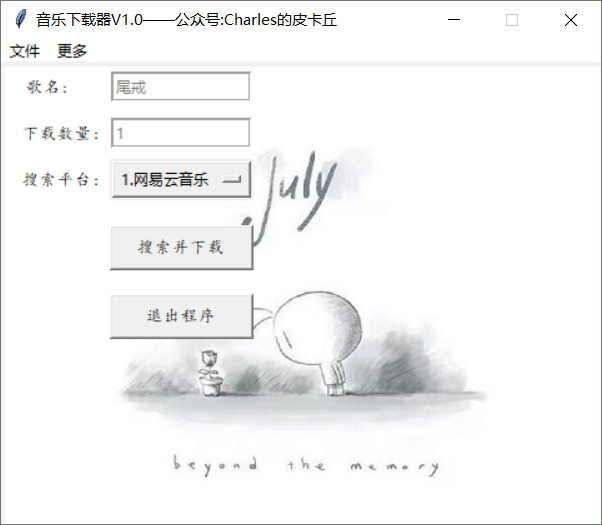
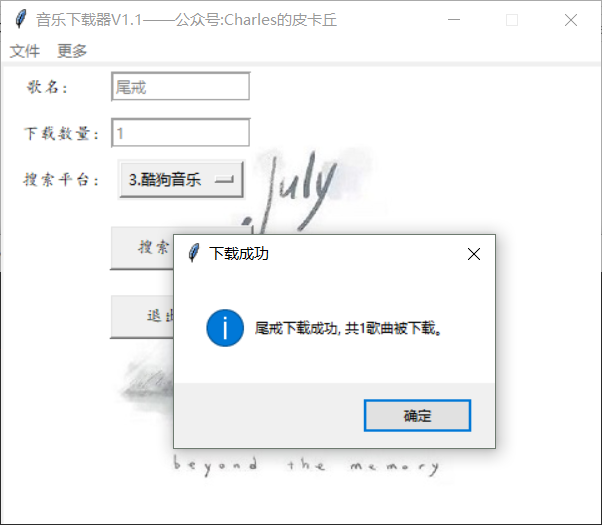
V1.1

diff --git a/platforms/kuwo.py b/platforms/kuwo.py
@@ -1,9 +1,8 @@
 # 作者： Charles
 # 公众号： Charles的皮卡丘
-# 千千音乐
+# 酷我音乐
 import re
 import os
-import json
 import urllib
 import requests
 
@@ -16,13 +15,13 @@ import requests
 返回值:
 	-downednum: 歌曲实际下载数量
 '''
-class qianqian():
+class kuwo():
 	def __init__(self):
 		self.headers = {
 						'User-Agent': 'Mozilla/5.0 (Windows NT 10.0; Win64; x64) AppleWebKit/537.36 (KHTML, like Gecko) Chrome/67.0.3396.99 Safari/537.36' 
 						}
-		self.search_url = 'http://music.baidu.com/search'
-		self.sid_url = 'http://musicapi.qianqian.com/v1/restserver/ting?method=baidu.ting.song.play&format=jsonp&callback=jQuery17208098337996053833_1513859108469&songid={}&_=1513859109906'
+		self.search_url = 'http://sou.kuwo.cn/ws/NSearch?type=all&catalog=yueku2016&key={}'
+		self.player_url = 'http://player.kuwo.cn/webmusic/st/getNewMuiseByRid?rid=MUSIC_{}'
 	# 外部调用
 	def get(self, songname, downnum=1, savepath='./results'):
 		download_names, download_urls = self._search_by_songname(songname, downnum)
@@ -34,9 +33,9 @@ class qianqian():
 			os.mkdir(savepath)
 		downed_count = 0
 		for i in range(len(download_urls)):
-			download_name = download_names[i]
+			download_name = download_names[i].replace("<\\/em>", "").replace("<em>", "").replace('\\', '').replace('/', '').replace(" ", "").replace('.', '')
 			download_url = download_urls[i]
-			savename = 'qianqian_{}_{}.mp3'.format(str(i), download_name)
+			savename = 'kuwo_{}_{}.mp3'.format(str(i), download_name)
 			try:
 				# way1:
 				urllib.request.urlretrieve(download_url, os.path.join(savepath, savename))
@@ -45,28 +44,26 @@ class qianqian():
 				try:
 					# way2
 					with open(os.path.join(savepath, savename), 'wb') as f:
-						f.write(requests.get(download_url, headers=self.headers).content)
+						f.write(requests.get(download_url).content)
 					downed_count += 1
 				except:
 					pass
 		return min(downed_count, len(download_urls))
 	# 根据歌名搜索
 	def _search_by_songname(self, songname, downnum):
-		data = {
-				'key': songname
-				}
-		res = requests.get(self.search_url, params=data, headers=self.headers)
-		sids = re.findall(r'sid&quot;:(\d+),', res.text)
+		res = requests.get(self.search_url.format(songname), headers=self.headers)
+		songinfos = re.findall(r'<a href="http://www\.kuwo\.cn/yinyue/(.*?)/" title="(.*?)" target="_blank">', res.text)
 		download_names = []
 		download_urls = []
-		for sid in sids:
+		for songinfo in songinfos:
 			if len(download_urls) == downnum:
 				break
-			res = requests.get(self.sid_url.format(sid), headers=self.headers)
-			temp = re.findall(r'\((.*)\)', res.text)[0]
-			data = json.loads(temp)
-			download_name = data['songinfo']['title'].replace("\\", "").replace("/", "").replace(" ", "").replace('.', '')
-			download_url = data['bitrate']['file_link']
+			download_name = songinfo[1].replace('&nbsp;', '').replace('\\', '').replace('/', '').replace(" ", "").replace('.', '')
+			songid = songinfo[0]
+			res = requests.get(self.player_url.format(songid), headers=self.headers)
+			mp3dl = re.findall(r'<mp3dl>(.*?)</mp3dl>', res.text)[0]
+			mp3path = re.findall(r'<mp3path>(.*?)</mp3path>', res.text)[0]
+			download_url = 'http://' + mp3dl + '/resource/' + mp3path
 			download_names.append(download_name)
 			download_urls.append(download_url)
 		return download_names, download_urls
@@ -74,4 +71,4 @@ class qianqian():
 
 # 测试用
 if __name__ == '__main__':
-	qianqian().get(songname='尾戒', downnum=1, savepath='./results')
+	kuwo().get('尾戒', downnum=1, savepath='./results')

diff --git a/main.py b/main.py
@@ -1,11 +1,12 @@
-# 作者： Charles
-# 公众号： Charles的皮卡丘
+# 作者: Charles
+# 公众号: Charles的皮卡丘
 # 音乐下载器
 # 目前支持的平台:
 # 	网易云: wangyiyun.wangyiyun()
 # 	QQ: qq.qq()
 # 	酷狗: kugou.kugou()
 # 	千千: qianqian.qianqian()
+# 	酷我: kuwo.kuwo()
 import os
 import threading
 from platforms import *
@@ -28,6 +29,7 @@ class Download_Thread(threading.Thread):
 		# 	QQ音乐 -> '2'
 		# 	酷狗音乐 -> '3'
 		# 	千千音乐 -> '4'
+		# 	酷我音乐 -> '5'
 		self.engine = None
 		self.songname = None
 		self.downnum = 1
@@ -66,6 +68,15 @@ class Download_Thread(threading.Thread):
 				self.show_start_info()
 				try:
 					downednum = qianqian.qianqian().get(self.songname, downnum=self.downnum)
+					self.show_end_info(downednum)
+				except:
+					title = '资源不存在'
+					msg = '所要下载的资源不存在！'
+					messagebox.showerror(title, msg)
+			elif self.engine == '5':
+				self.show_start_info()
+				try:
+					downednum = kuwo.kuwo().get(self.songname, downnum=self.downnum)
 					self.show_end_info(downednum)
 				except:
 					title = '资源不存在'
@@ -130,7 +141,7 @@ def Demo(options):
 	assert len(options) > 0
 	# 初始化
 	root = Tk()
-	root.title('音乐下载器V1.0——公众号:Charles的皮卡丘')
+	root.title('音乐下载器V1.1——公众号:Charles的皮卡丘')
 	root.resizable(False, False)
 	root.geometry('480x368+400+120')
 	image_path = './bgimgs/bg1_demo.jpg'
@@ -179,5 +190,5 @@ def Demo(options):
 
 
 if __name__ == '__main__':
-	options = ["1.网易云音乐", "2.QQ音乐", "3.酷狗音乐", "4.千千音乐"]
+	options = ["1.网易云音乐", "2.QQ音乐", "3.酷狗音乐", "4.千千音乐", "5.酷我音乐"]
 	Demo(options)

diff --git a/platforms/wangyiyun.py b/platforms/wangyiyun.py
@@ -50,6 +50,14 @@ class Cracker():
 		return (''.join(map(lambda xx: (hex(ord(xx))[2:]), str(os.urandom(size)))))[0:16]
 
 
+'''
+输入:
+	-songname: 歌名
+	-downnum: 歌曲下载数量
+	-savepath: 歌曲保存路径
+返回值:
+	-downednum: 歌曲实际下载数量
+'''
 class wangyiyun():
 	def __init__(self):
 		self.headers = {
@@ -67,10 +75,12 @@ class wangyiyun():
 		self.cracker = Cracker()
 		self.search_session = requests.Session()
 		self.search_session.headers.update(self.headers)
+	# 外部调用
 	def get(self, songname, downnum=1, savepath='./results'):
 		download_names, download_urls = self._search_by_songname(songname, downnum)
 		downednum = self._download(download_names, download_urls, savepath)
 		return downednum
+	# 下载
 	def _download(self, download_names, download_urls, savepath):
 		if not os.path.exists(savepath):
 			os.mkdir(savepath)
@@ -93,6 +103,7 @@ class wangyiyun():
 					pass
 			time.sleep(random.random())
 		return min(downed_count, len(download_urls))
+	# 根据歌名搜索
 	def _search_by_songname(self, songname, downnum, search_type=1, limit=9, bit_rate=320000, csrf='', timeout=600):
 		params1 = {
 					's': songname,
@@ -126,6 +137,7 @@ class wangyiyun():
 				return download_names, download_urls
 		else:
 			return None
+	# post请求函数
 	def _post_requests(self, url, params, timeout):
 		post_data = self.cracker.get(params)
 		res = self.search_session.post(url, data=post_data, timeout=timeout)

diff --git a/platforms/qq.py b/platforms/qq.py
@@ -9,6 +9,14 @@ import random
 import requests
 
 
+'''
+输入:
+	-songname: 歌名
+	-downnum: 歌曲下载数量
+	-savepath: 歌曲保存路径
+返回值:
+	-downednum: 歌曲实际下载数量
+'''
 class qq():
 	def __init__(self):
 		self.headers = {
@@ -17,6 +25,7 @@ class qq():
 		self.search_url = 'https://c.y.qq.com/soso/fcgi-bin/client_search_cp?ct=24&qqmusic_ver=1298&new_json=1&remoteplace=txt.yqq.top&searchid=34725291680541638&t=0&aggr=1&cr=1&catZhida=1&lossless=0&flag_qc=0&p=1&n=20&w={}&g_tk=5381&jsonpCallback=MusicJsonCallback703296236531272&loginUin=0&hostUin=0&format=jsonp&inCharset=utf8&outCharset=utf-8&notice=0&platform=yqq&needNewCode=0'
 		self.fcg_url = 'https://c.y.qq.com/base/fcgi-bin/fcg_music_express_mobile3.fcg?g_tk=5381&jsonpCallback=MusicJsonCallback9239412173137234&loginUin=0&hostUin=0&format=json&inCharset=utf8&outCharset=utf-8&notice=0&platform=yqq&needNewCode=0&cid=205361747&callback=MusicJsonCallback9239412173137234&uin=0&songmid={}&filename={}.m4a&guid=8208467632'
 		self.download_format_url = 'http://dl.stream.qqmusic.qq.com/{}.m4a?vkey={}&guid=8208467632&uin=0&fromtag=66'
+	# 外部调用
 	def get(self, songname, downnum=1, savepath='./results'):
 		download_names, download_urls = self._search_by_songname(songname, downnum)
 		downednum = self._download(download_names, download_urls, savepath)

diff --git a/platforms/kugou.py b/platforms/kugou.py
@@ -8,7 +8,7 @@ import requests
 
 
 '''
-输入参数:
+输入:
 	-songname: 歌名
 	-downnum: 歌曲下载数量
 	-savepath: 歌曲保存路径
@@ -53,7 +53,8 @@ class kugou():
 	def _search_by_songname(self, songname, downnum):
 		res = requests.get(self.search_url.format(songname), headers=self.headers)
 		filehashs = re.findall('"FileHash":"(.*?)"', res.text)
-		download_names = re.findall('"SongName":"(.*?)"', res.text)
+		temp_names = re.findall('"SongName":"(.*?)"', res.text)
+		download_names = []
 		download_urls = []
 		for filehash in filehashs:
 			if len(download_urls) == downnum:
@@ -61,6 +62,7 @@ class kugou():
 			res = requests.get(self.hash_url.format(filehash))
 			paly_url = re.findall('"play_url":"(.*?)"', res.text)[0]
 			download_url = paly_url.replace("\\", "")
+			download_names.append(temp_names[len(download_urls)])
 			download_urls.append(download_url)
 		return download_names, download_urls
 

diff --git a/platforms/__init__.py b/platforms/__init__.py
@@ -1,6 +1,7 @@
 # __init__
-__all__ = ['wangyiyun', 'kugou', 'qq', 'qianqian']
 # from platforms.wangyiyun import wangyiyun
 # from platforms.kugou import kugou
 # from platforms.baidu import baidu
+# from platforms.kuwo import kuwo
 # from platforms.qq import qq
+__all__ = ['wangyiyun', 'kugou', 'qq', 'qianqian', 'kuwo']

diff --git a/README.md b/README.md
@@ -8,7 +8,7 @@ You can star this repository to keep track of the project if it's helpful for yo
 - [x] Kugou
 - [x] Qianqian
 - [ ] Xiami
-- [ ] Kuwo
+- [x] Kuwo
 
 # How to run?
 ### Step1-download this repository:
@@ -29,7 +29,7 @@ Version: V1.0
 Four platforms supported.  
 ### 2018-07-01:
 Version: V1.1  
-Optimize the code.  
+Optimize the code, support kuwo.  
 # Running Screenshot:
 ![img](Screenshot.png)
 
